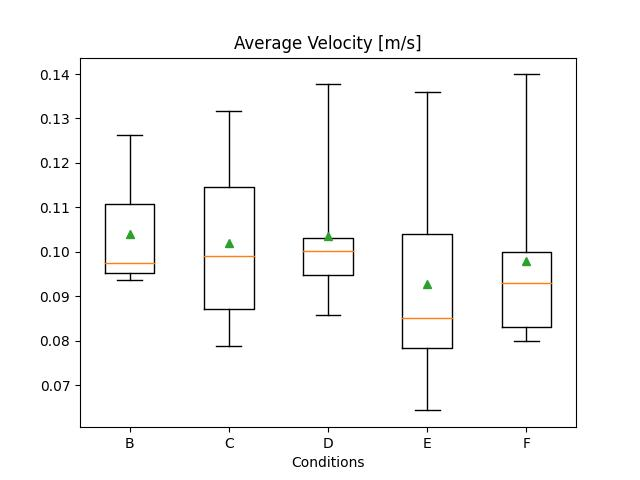
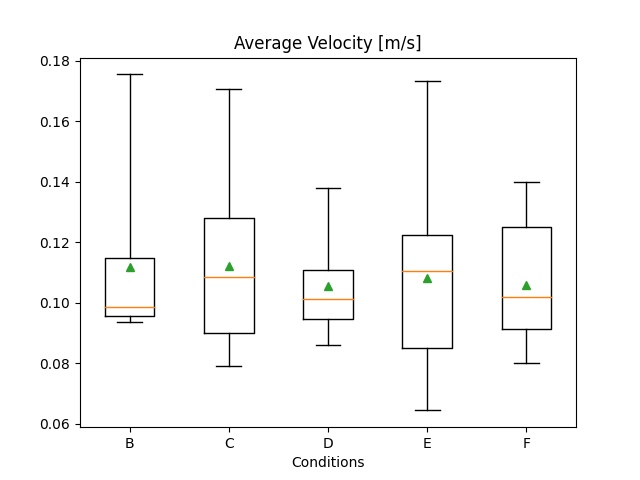
added grouped boxplots for input velocity per trial

diff --git a/plot.py b/plot.py
@@ -5,6 +5,7 @@ import matplotlib.pyplot as plt
 from plotly.offline import plot
 import plotly.express as px
 import dill
+import seaborn as sns
 import functions
 
 dill.load_session('data_calculated.pkl')
@@ -106,10 +107,25 @@ ax6.set_xticklabels(['B','C','D','E','F'])
 ax6.set_xlabel('Conditions')
 fig6.savefig("plots/grab_attempts.jpg")
 
-#%% plot input paths
-# for p in Participants:
-#     for c in Conditions[1:]:
-#         for t in Trials:
+#%% plot learning effects
+trial_velocity = pd.DataFrame([] , columns=['velocity', 'participant', 'condition', 'trial'])
+velocity = []
+
+for p in Participants:
+    for c in Conditions[1:]:
+        for t in Trials:         
+            new_row = [np.mean(data[p][c][t]['velocity']), p, c, t]
+            trial_velocity.loc[len(trial_velocity)] = new_row
+
+fig7, ax7 = plt.subplots()
+sns.boxplot(x=trial_velocity['condition'], y=trial_velocity['velocity'], hue=trial_velocity['trial'])
+ax7.set_title('Average input velocity per trial [n={}]'.format(len(Participants)))
+fig7.savefig("plots/trial_velocity.jpg")
+
+# %% plot input paths
+# for p in [8]:
+#     for c in ['B', 'C']:
+#         for t in [1]:
 #             plot_data = functions.crop_data(data[p][c][t]['Hand'][['posZ','posX','posY']],data[p][c][t]['Experiment'])
 #             fig3 = px.line_3d(plot_data, x='posZ', y='posX', z='posY', title = 'Hand input')
 #             plot(fig3, filename='plots/fig{}{}{}.html'.format(p,c,t,))
